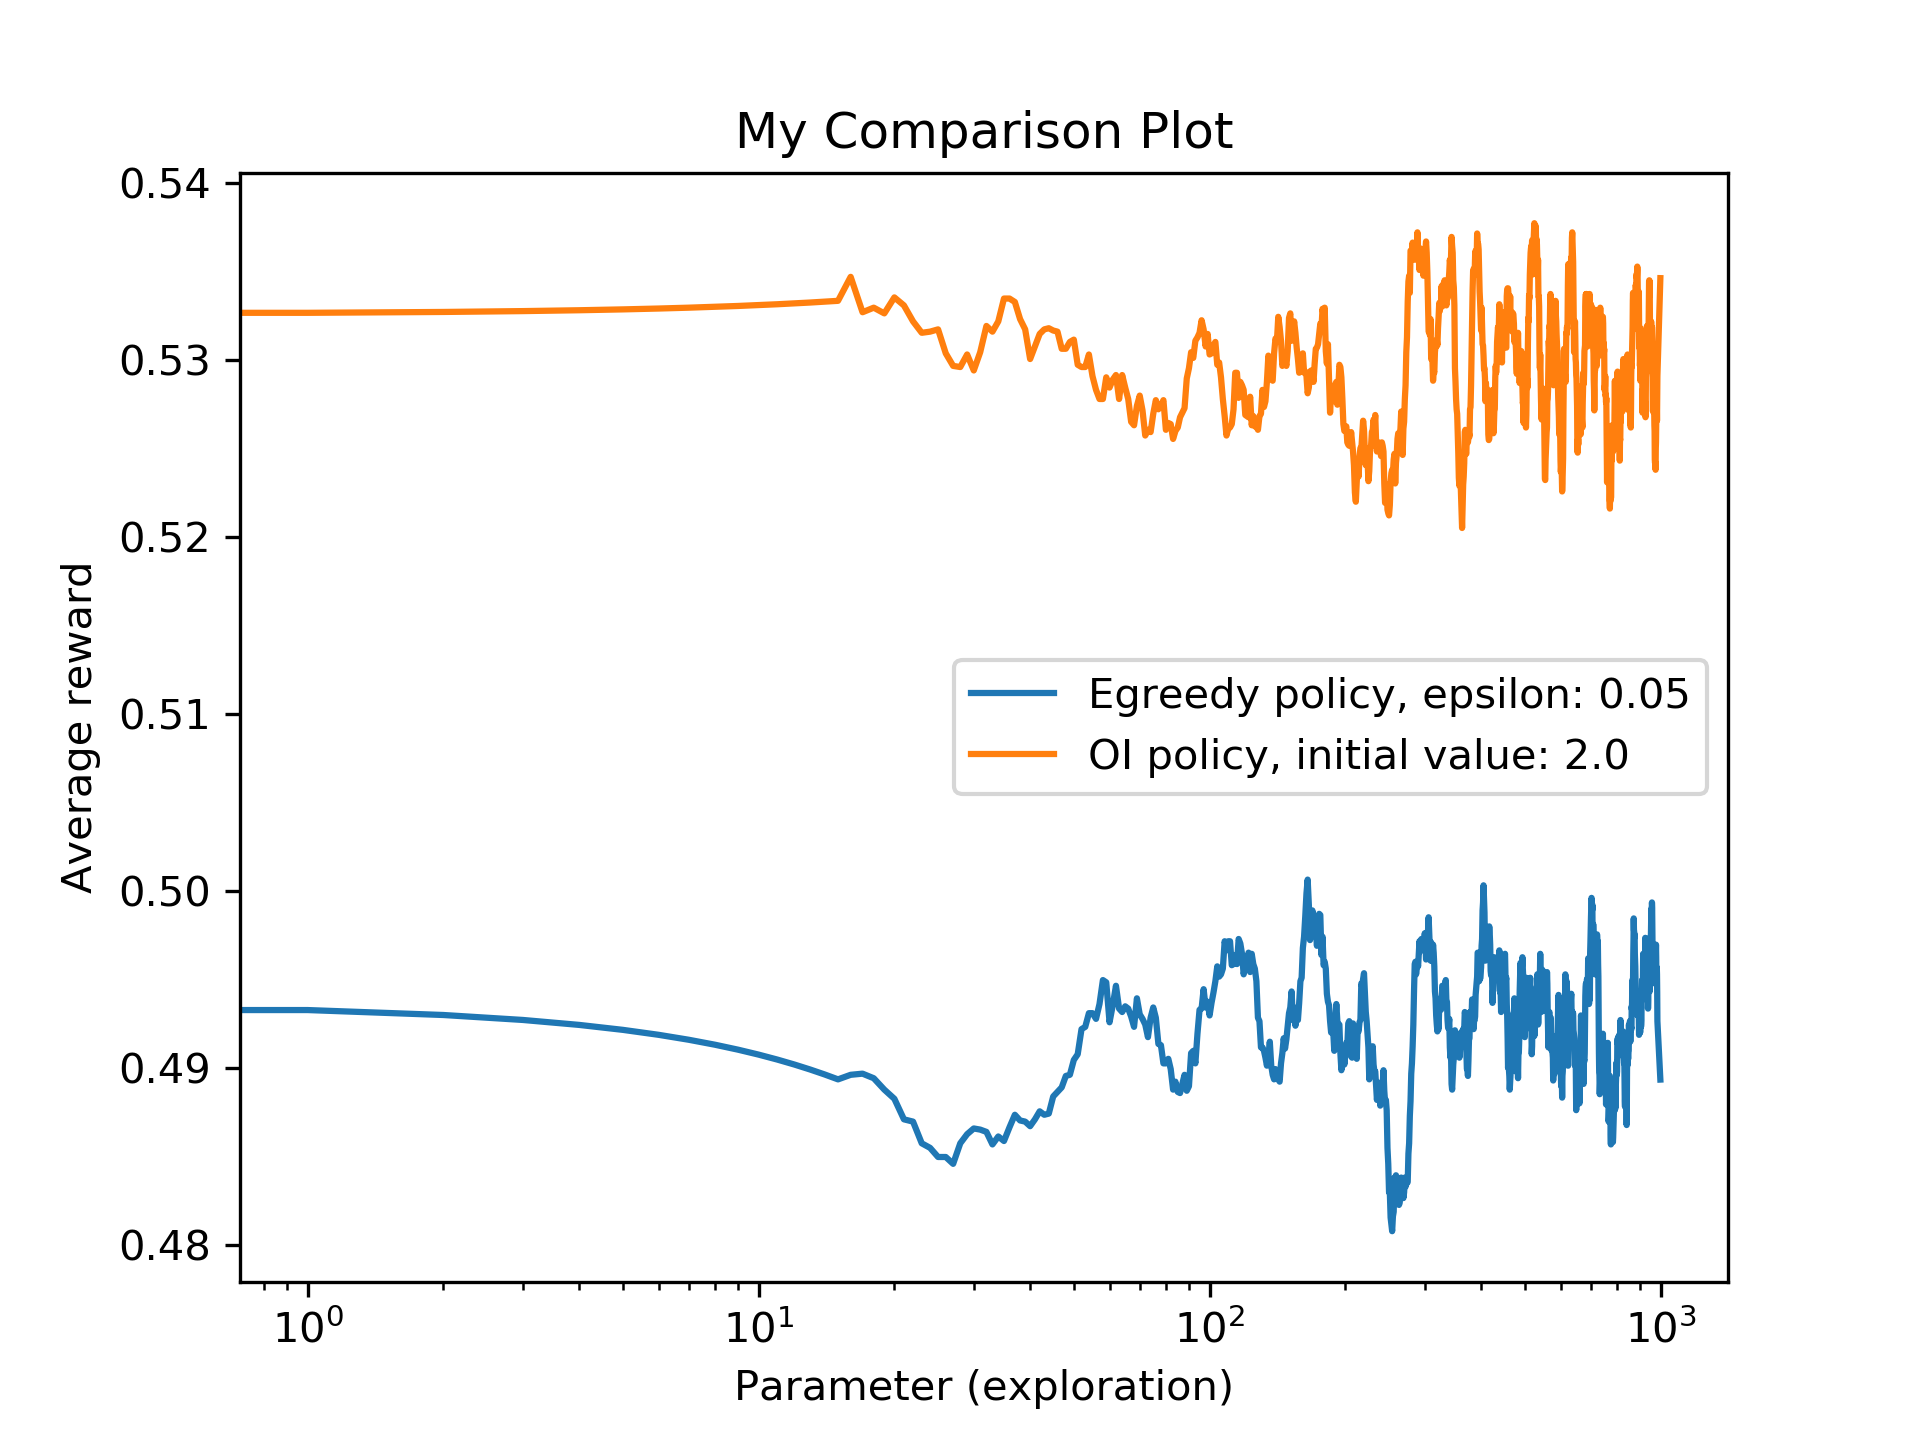
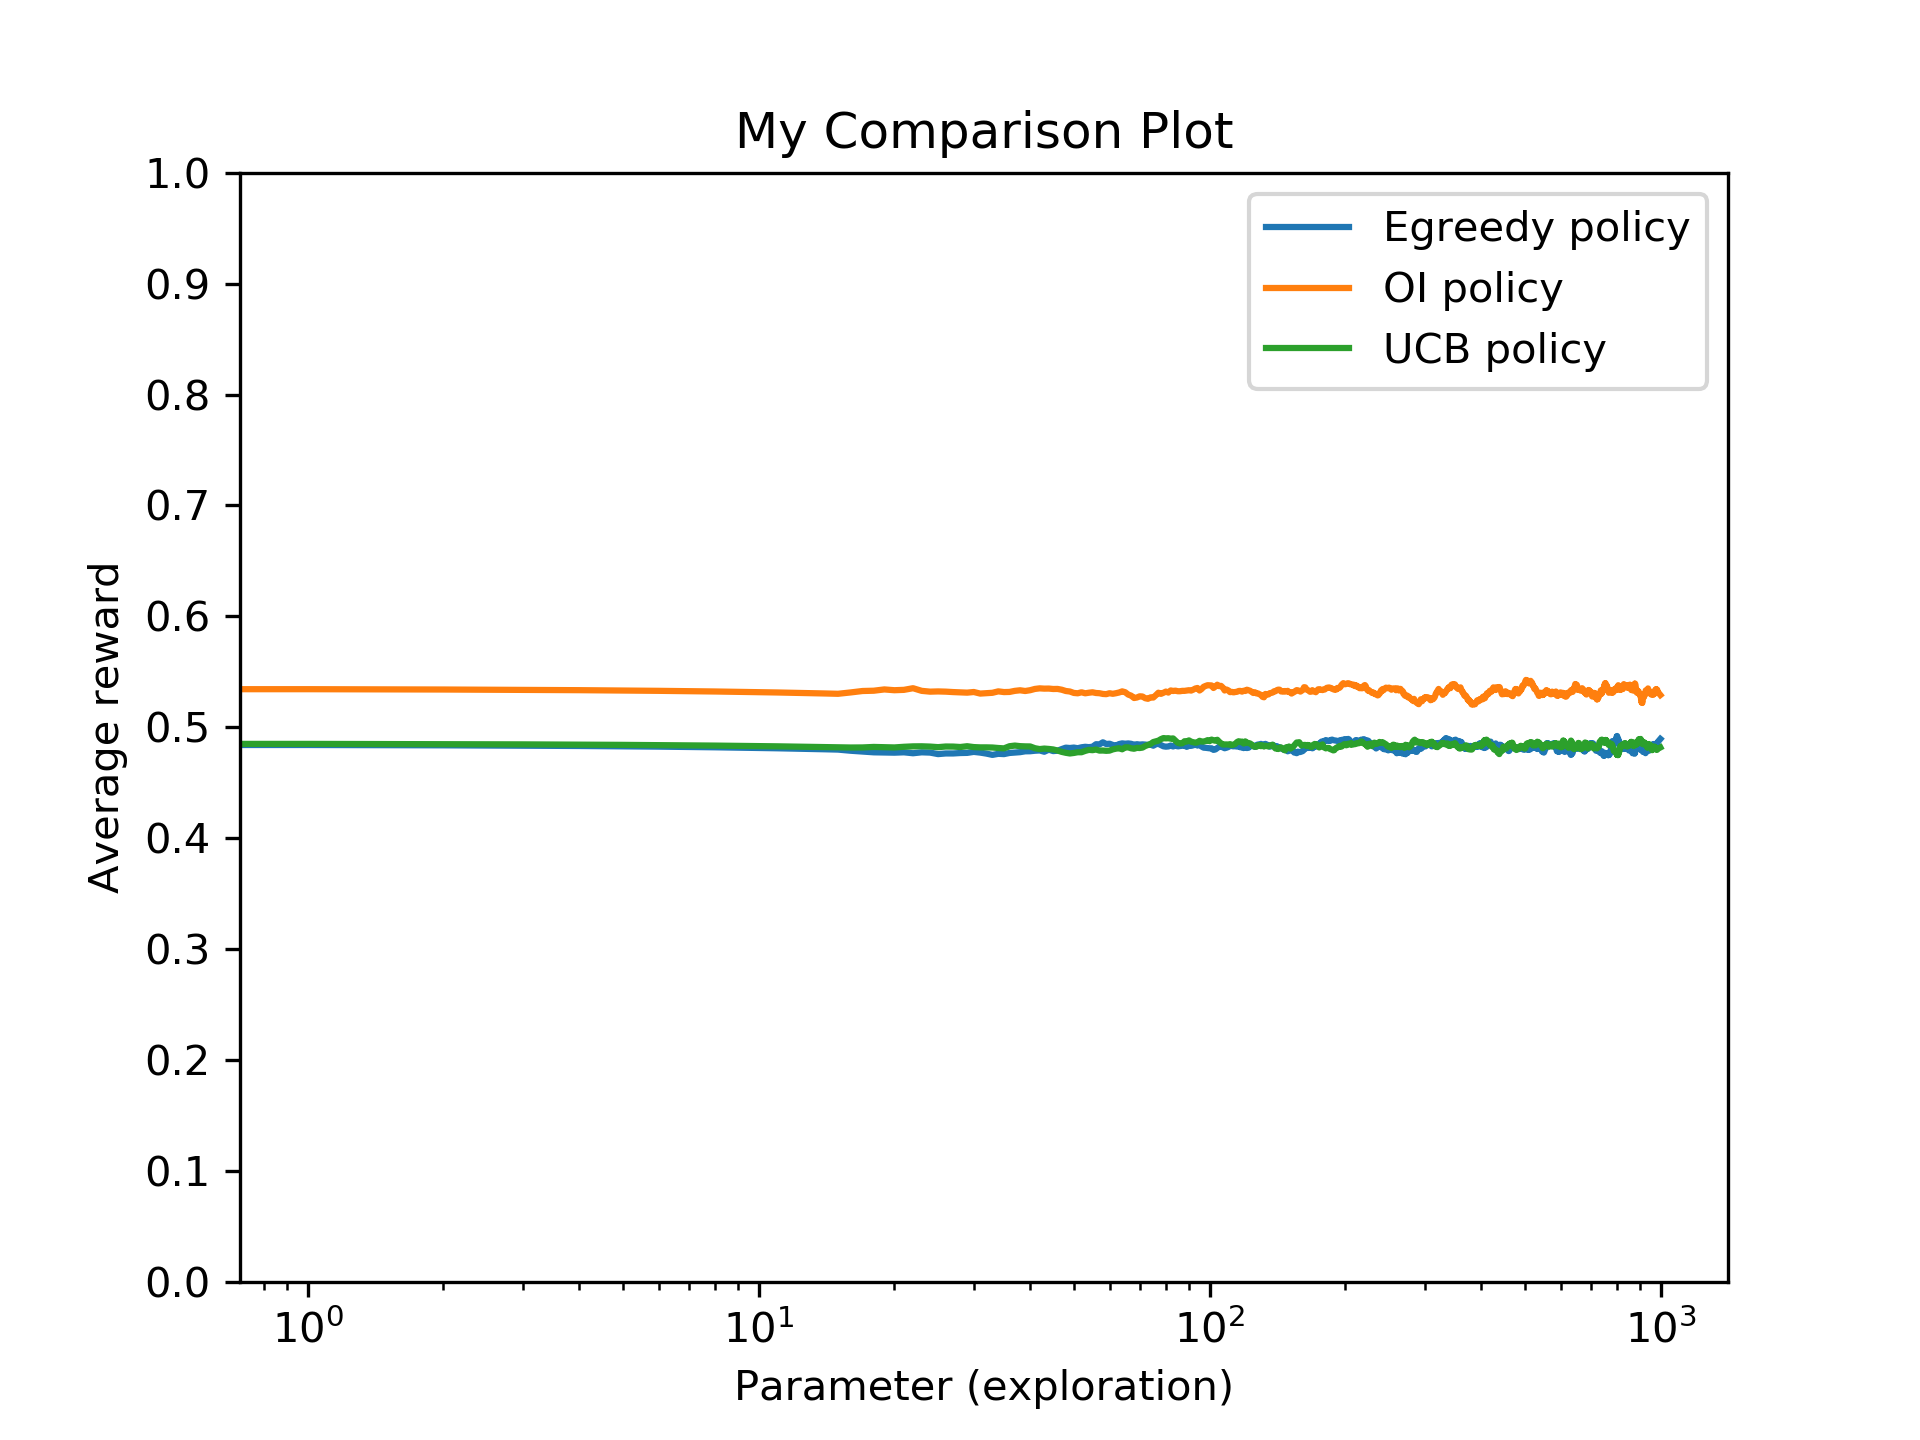
"final implementation"

diff --git a/BanditExperiment.py b/BanditExperiment.py
@@ -17,51 +17,51 @@ def experiment(n_actions, n_timesteps, n_repetitions, smoothing_window):
     #To Do: Write all your experiment code here
     
     # Assignment 1: e-greedy
-    """
-    input_policy = EgreedyPolicy(n_actions=10)
+    
+    """input_policy1 = EgreedyPolicy(n_actions=10)
     epsilon_list = [0.01, 0.05, 0.1, 0.25]
     mean_return_list = np.zeros(len(epsilon_list))
     for epsilon_value in epsilon_list:
-        mean_return_list[epsilon_list.index(epsilon_value)] = run_repetitions(n_timesteps=1000, n_repetitions=500, input_value=epsilon_value, policy=input_policy)
+        mean_return_list[epsilon_list.index(epsilon_value)] = run_repetitions(n_timesteps=1000, n_repetitions=500, input_value=epsilon_value, policy=input_policy1)
     
-    LearningCurvePlot.create_mean_return_plot(epsilon_list, mean_return_list, xlabel='epsilon values', title='The mean return of each epsilon value')
+    LearningCurvePlot.create_mean_return_plot(epsilon_list, mean_return_list, xlabel='epsilon values', title='The mean return of each epsilon value')"""
     
     # Assignment 2: Optimistic init
-    input_policy = OIPolicy(n_actions=10)
+    """input_policy2 = OIPolicy(n_actions=10)
     initial_value_list = [0.1, 0.5, 1.0, 2.0]
     mean_return_list = np.zeros(len(initial_value_list))
     for initial_value in initial_value_list:
-        mean_return_list[initial_value_list.index(initial_value)] = run_repetitions(n_timesteps=1000, n_repetitions=500, input_value=initial_value, policy=input_policy)
+        mean_return_list[initial_value_list.index(initial_value)] = run_repetitions(n_timesteps=1000, n_repetitions=500, input_value=initial_value, policy=input_policy2)
     
-    LearningCurvePlot.create_mean_return_plot(initial_value_list, mean_return_list, xlabel='initial values', title='The mean return of each initial value')
+    LearningCurvePlot.create_mean_return_plot(initial_value_list, mean_return_list, xlabel='initial values', title='The mean return of each initial value')"""
     
     
     # Assignment 3: UCB
-    input_policy = UCBPolicy(n_actions=10)
+    """input_policy3 = UCBPolicy(n_actions=10)
     c_list = [0.01, 0.05, 0.1, 0.25, 0.5, 1.0]
     mean_return_list = np.zeros(len(c_list))
     for c_value in c_list:
-        mean_return_list[c_list.index(c_value)] = run_repetitions(n_timesteps=1000, n_repetitions=500, input_value=c_value, policy=input_policy)
+        mean_return_list[c_list.index(c_value)] = run_repetitions(n_timesteps=1000, n_repetitions=500, input_value=c_value, policy=input_policy3)
     
-    LearningCurvePlot.create_mean_return_plot(c_list, mean_return_list, xlabel='c values', title='The mean return of each c value')
-    """
+    LearningCurvePlot.create_mean_return_plot(c_list, mean_return_list, xlabel='c values', title='The mean return of each c value')"""
+    
     # Assignment 4: Comparison
     plot = ComparisonPlot(title="My Comparison Plot")
     
     used_policy1 = EgreedyPolicy(n_actions=10)
-    reward_array = run_repetitions(n_timesteps=1000, n_repetitions=500, input_value=0.05, policy=used_policy1)
+    reward_array = run_repetitions(n_timesteps=1000, n_repetitions=500, input_value=0.1, policy=used_policy1)
     smoothed = smooth(reward_array, smoothing_window)
-    plot.add_curve(x=np.arange(n_timesteps), y=smoothed, label="Egreedy policy, epsilon: 0.05")
+    plot.add_curve(x=np.arange(n_timesteps), y=smoothed, label="Egreedy policy")
     
-    used_policy2 = OIPolicy(n_actions=10, initial_value=2.0)
-    reward_array = run_repetitions(n_timesteps=1000, n_repetitions=500, input_value=2.0, policy=used_policy2)
+    used_policy2 = OIPolicy(n_actions=10, initial_value=0.1)
+    reward_array = run_repetitions(n_timesteps=1000, n_repetitions=500, input_value=0.1, policy=used_policy2)
     smoothed = smooth(reward_array, smoothing_window)
-    plot.add_curve(x=np.arange(n_timesteps), y=smoothed, label="OI policy, initial value: 2.0")
+    plot.add_curve(x=np.arange(n_timesteps), y=smoothed, label="OI policy")
     
-    """used_policy3 = UCBPolicy(n_actions=10)
-    reward_array = run_repetitions(n_timesteps=1000, n_repetitions=500, input_value=0.25, policy=used_policy3)
+    used_policy3 = UCBPolicy(n_actions=10)
+    reward_array = run_repetitions(n_timesteps=1000, n_repetitions=500, input_value=0.1, policy=used_policy3)
     smoothed = smooth(reward_array, smoothing_window)
-    plot.add_curve(x=np.arange(n_timesteps), y=smoothed, label="UCB policy, c value: 0.25")"""
+    plot.add_curve(x=np.arange(n_timesteps), y=smoothed, label="UCB policy")
     
     plot.save("my_plot.png")
     

diff --git a/BanditPolicies.py b/BanditPolicies.py
@@ -15,19 +15,29 @@ class EgreedyPolicy:
         self.n_actions = n_actions
         self.Q_a = np.zeros(n_actions)
         self.n_a = np.zeros(n_actions)
-        
+        self.probability_array = np.zeros(n_actions)
         
     def select_action(self, epsilon, t):
         # TO DO: Add own code
+        """if self.Q_a.all() == 0:
+            for element in self.probability_array:
+                element = 1.0/self.n_actions
+            try:    
+                return np.random.choice(self.n_actions, self.probability_array) 
+            except TypeError as e:
+                print("Error occurred:", e)
+                print("Float causing the error:", self.probability_array[np.where(np.isnan(self.probability_array))])
+        """
+        
         for n in range(self.n_actions):
             if self.Q_a[n] == np.argmax(self.Q_a):
                 self.Q_a[n] = 1 - epsilon
             else:
                 self.Q_a[n] = epsilon / (self.n_actions - 1)
-                
-        #execute max action         
-        return np.argmax(self.Q_a)
-        
+    
+        #execute max action  
+        return np.argmax(self.Q_a)  
+    
     def update(self,a,r):
         # TO DO: Add own code
         self.n_a[a] += 1
@@ -68,31 +78,25 @@ class UCBPolicy:
     
     def select_action(self, c, t):
         # TO DO: Add own code
-        """for n in range(self.n_actions):
+        for n in range(self.n_actions):
             if self.n_a[n] == 0:
-                print(self.Q_a[n])
-                return int(self.Q_a[n])
-            
-            
-            values = self.Q_a + c * np.sqrt(np.log(t) / self.n_a)    
+                self.Q_a[n] = np.inf
+                return np.argmax(self.Q_a)
+               
+            values = self.Q_a + c * np.sqrt(np.log(t) / self.n_a)   
+             
             if self.Q_a[n] == np.argmax(values):
                 self.Q_a[n] = 1
             else:
                 self.Q_a[n] = 0
-        print(np.argmax(self.Q_a))"""
-        values = np.zeros(self.n_actions)
-        for a in range(self.n_actions):
-            if self.n_a[a] == 0:
-                values[a] = np.inf
-            else:
-                values[a] = self.Q_a[a] + c * np.sqrt(np.log(t) / self.n_a)
-        return np.argmax(values)
+        
+        return np.argmax(self.Q_a)
         
     def update(self,a,r):
         # TO DO: Add own code
         self.n_a[a] += 1
-        
-        self.Q_a[a] += (1/self.n_a[a]) * (r - self.Q_a[a])
+        if self.n_a[a] != 0:
+            self.Q_a[a] += (1/self.n_a[a]) * (r - self.Q_a[a])
     
 def test():
     n_actions = 10

diff --git a/Helper.py b/Helper.py
@@ -74,6 +74,7 @@ class ComparisonPlot:
         
     def save(self,name='test.png'):
         ''' name: string for filename of saved figure '''
+        self.ax.set_yticks(np.arange(0, 1.1, 0.1))
         self.ax.legend()
         self.fig.savefig(name,dpi=300)
 
